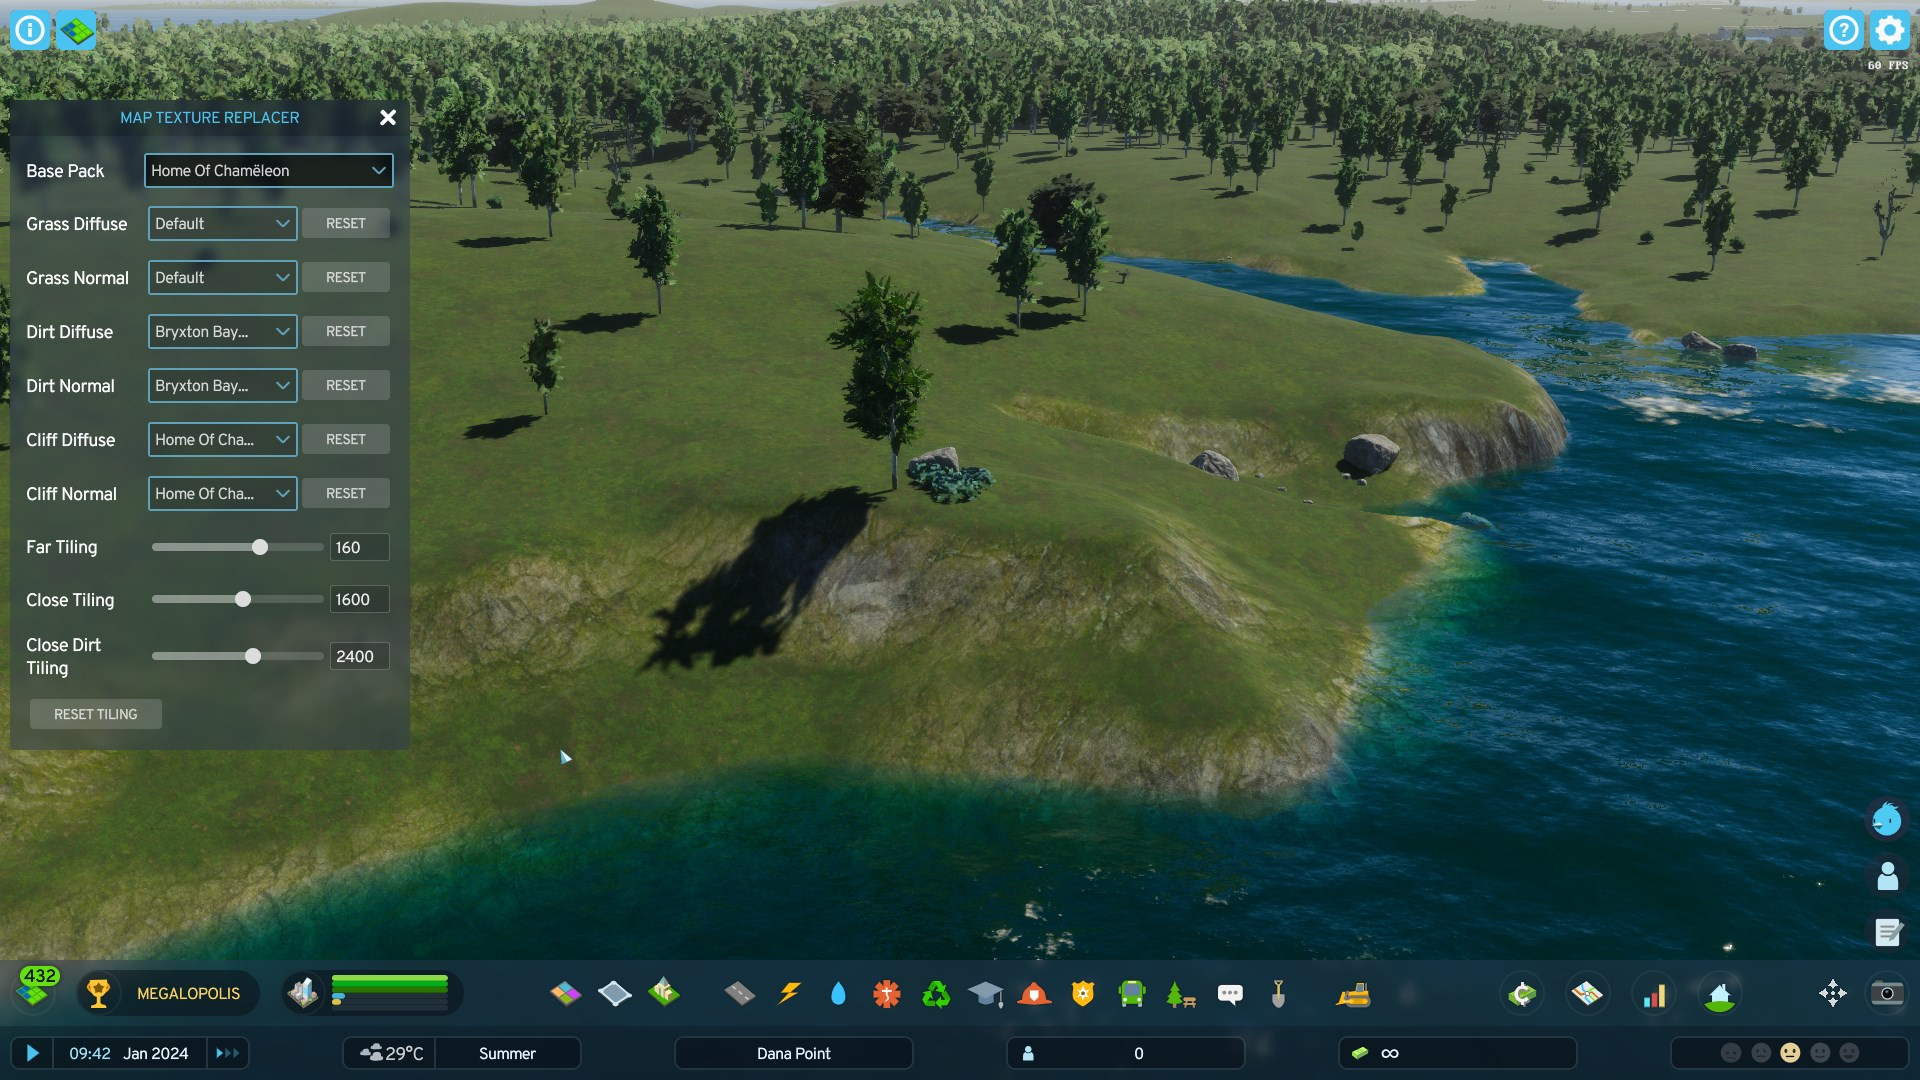
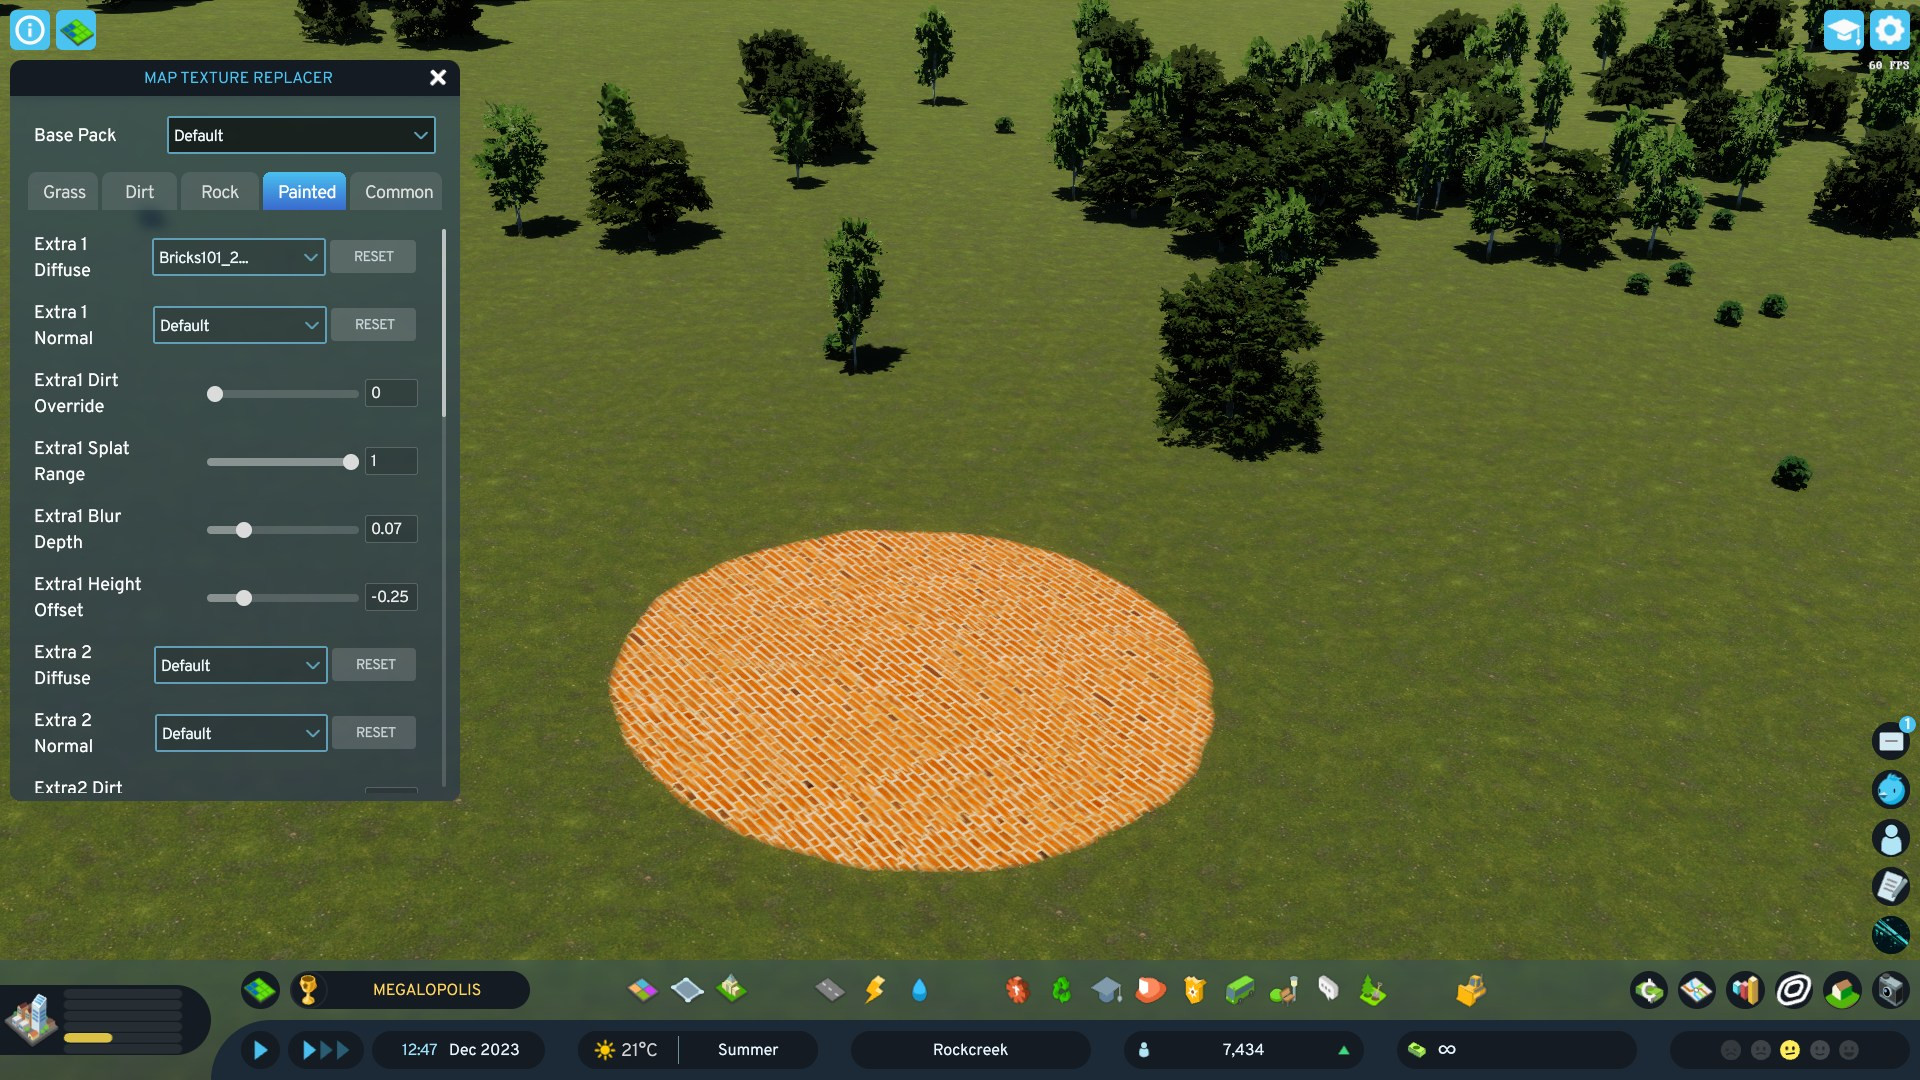
updated description/images

diff --git a/Patches/MenuUISystemPatches.cs b/Patches/MenuUISystemPatches.cs
@@ -4,20 +4,23 @@ using MapTextureReplacer;
 using MapTextureReplacer.Systems;
 using Unity.Entities;
 
-[HarmonyPatch(typeof(MenuUISystem), "ExitToMainMenu")]
-public static class MenuUISystem_ExitToMainMenu_Prefix
+namespace MapTextureReplacer.Patches
 {
-    static void Prefix(MenuUISystem __instance)
+    [HarmonyPatch(typeof(MenuUISystem), "ExitToMainMenu")]
+    public static class MenuUISystem_ExitToMainMenu_Prefix
     {
-        var sys = World.DefaultGameObjectInjectionWorld?.GetOrCreateSystemManaged<MapTextureReplacerSystem>();
-        var ui = World.DefaultGameObjectInjectionWorld?.GetOrCreateSystemManaged<MapTextureReplacerUISystem>();
+        static void Prefix(MenuUISystem __instance)
+        {
+            var sys = World.DefaultGameObjectInjectionWorld?.GetOrCreateSystemManaged<MapTextureReplacerSystem>();
+            var ui = World.DefaultGameObjectInjectionWorld?.GetOrCreateSystemManaged<MapTextureReplacerUISystem>();
 
-        ui?.SetWindowOpen(false);
+            ui?.SetWindowOpen(false);
 
-        //drop overrides + restore pristine tiling so the shared prefab doesn't leak into the next map;
-        //saved selections/tiling reapply on the next load (MapTextureReplacerInGameLoadedSystem)
-        sys?.OnExitToMenu();
+            //drop overrides + restore pristine tiling so the shared prefab doesn't leak into the next map;
+            //saved selections/tiling reapply on the next load (MapTextureReplacerInGameLoadedSystem)
+            sys?.OnExitToMenu();
 
-        Mod.log.Info("Restored vanilla terrain on exit to menu");
+            Mod.log.Info("Restored vanilla terrain on exit to menu");
+        }
     }
 }